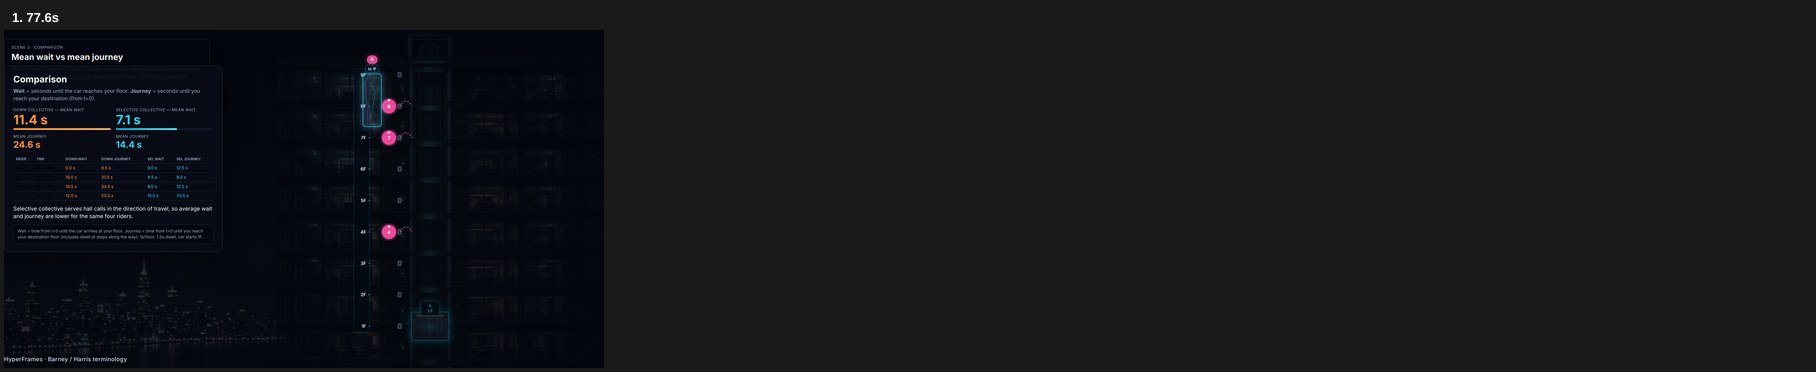
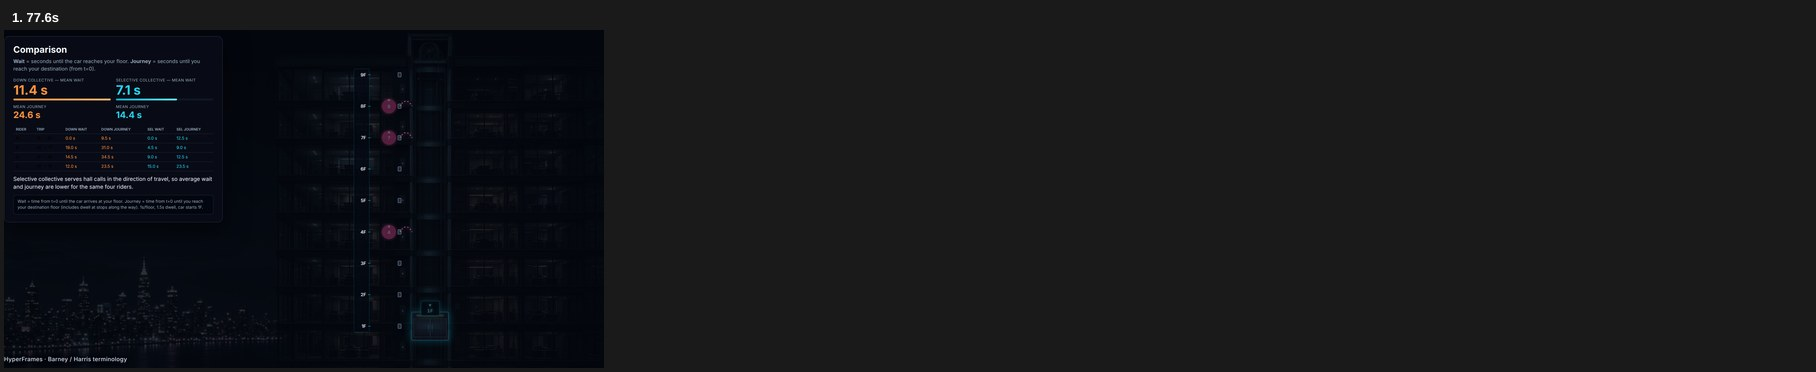
QA pass on storyboard stills: riders, badges, stats layout

diff --git a/apps/elevator-selective-collective/composition/scene.js b/apps/elevator-selective-collective/composition/scene.js
@@ -138,32 +138,70 @@ export function initComposition() {
     return { phase: 'stats', mode: null, simTime: 0 }
   }
 
+  const liveExplainer = document.getElementById('live-explainer')
+  const callsRoot = document.getElementById('calls')
+
   function setCallBadgeStyle(mode) {
+    if (callsRoot) callsRoot.setAttribute('data-mode', mode)
     document.querySelectorAll('.call-badge').forEach((g) => {
-      const dirEl = g.querySelector('.call-dir')
-      const dotEl = g.querySelector('.call-dot')
+      const dir = g.querySelector('.call-dir')
+      const floor = Number(g.dataset.floor)
+      if (!dir) return
       if (mode === 'down-collective') {
-        if (dirEl) dirEl.style.display = 'none'
-        if (dotEl) dotEl.style.display = 'block'
+        dir.textContent = ''
       } else {
-        if (dirEl) dirEl.style.display = 'block'
-        if (dotEl) dotEl.style.display = 'none'
+        dir.textContent = floor === 8 ? '▼' : '▲'
       }
     })
   }
 
-  function updateRiders(state) {
+  function positionLandingRider(el, floor) {
+    const x = LAYOUT.shaftLeft - 118
+    const y = floorCenterY(floor) + 8
+    el.style.left = `${x}px`
+    el.style.top = `${y}px`
+  }
+
+  function updateCallBadges(waitingIds) {
+    const originByRider = { b: 4, c: 7, d: 8 }
+    for (const f of CALL_FLOORS) {
+      const badge = document.querySelector(`.call-badge[data-floor="${f}"]`)
+      if (!badge) continue
+      const lit = Object.entries(originByRider).some(
+        ([id, fl]) => fl === f && waitingIds.includes(id),
+      )
+      badge.style.opacity = lit ? '1' : '0.22'
+    }
+  }
+
+  function updateRiders(state, carFloor = 1, doorsOpen = false) {
     for (const spec of DEMO_PASSENGERS) {
       const landing = document.getElementById(`rider-${spec.id}-landing`)
       const inCab = document.getElementById(`rider-${spec.id}-cab`)
       if (!landing || !inCab) continue
-      const onLanding = state.waiting.includes(spec.id)
-      const inside = state.inCar.includes(spec.id)
-      landing.style.opacity = onLanding ? '1' : '0'
-      inCab.style.opacity = inside ? '1' : '0'
+
+      let showLanding = state.waiting.includes(spec.id)
+      let showCab = state.inCar.includes(spec.id)
+      let landingFloor = spec.origin
+
+      if (
+        doorsOpen &&
+        showCab &&
+        spec.destination === Math.round(carFloor) &&
+        !state.delivered.includes(spec.id)
+      ) {
+        showLanding = true
+        showCab = false
+        landingFloor = Math.round(carFloor)
+      }
+
+      if (showLanding) positionLandingRider(landing, landingFloor)
+      landing.style.opacity = showLanding ? '1' : '0'
+      inCab.style.opacity = showCab ? '1' : '0'
     }
-    riderCount.textContent = state.inCar.length ? `${state.inCar.length} in car` : ''
-    riderCount.style.opacity = state.inCar.length ? '1' : '0'
+    const inCarCount = state.inCar.length
+    riderCount.textContent = inCarCount ? `${inCarCount} in car` : ''
+    riderCount.style.opacity = inCarCount ? '1' : '0'
   }
 
   function applyPresentationTime(t) {
@@ -171,17 +209,14 @@ export function initComposition() {
 
     termsPanel.style.opacity = phase === 'terms' ? '1' : '0'
     stats.style.opacity = phase === 'stats' ? '1' : '0'
-    typography.style.opacity = phase === 'terms' ? '1' : '0'
+    typography.style.opacity = '0'
+    liveExplainer.style.opacity = phase === 'stats' ? '0' : '1'
     plateWrap.classList.toggle('dimmed', phase === 'stats')
     if (phase === 'stats') plateWrap.style.opacity = '0.35'
     else plateWrap.style.opacity = '1'
 
     pathDown.style.opacity = phase === 'down' ? '0.85' : '0'
     pathSel.style.opacity = phase === 'selective' ? '0.88' : '0'
-    document.querySelectorAll('.call-badge').forEach((g) => {
-      if (phase !== 'stats') g.style.opacity = phase === 'terms' || phase === 'down' || phase === 'selective' ? '1' : '0'
-    })
-
     if (phase === 'terms') {
       sceneTag.textContent = 'Scene 0 · Terms'
       setCallBadgeStyle('selective-collective')
@@ -191,11 +226,17 @@ export function initComposition() {
       expDir.textContent = '—'
       expWaiting.textContent = 'B @ 4F · C @ 7F · D @ 8F still waiting in the hallway'
       setCarFloor(1, true, 1)
+      for (const spec of DEMO_PASSENGERS) {
+        if (spec.id === 'a') continue
+        const landing = document.getElementById(`rider-${spec.id}-landing`)
+        if (landing) positionLandingRider(landing, spec.origin)
+      }
       updateRiders({
         waiting: ['b', 'c', 'd'],
         inCar: ['a'],
         delivered: [],
       })
+      updateCallBadges(['b', 'c', 'd'])
       car.style.opacity = '1'
       return
     }
@@ -230,23 +271,14 @@ export function initComposition() {
       : 'No hallway waits left'
     setCarFloor(state.floor, state.doorsOpen, state.doorsOpen ? 1 : 0, state.direction)
     car.style.opacity = '1'
-    updateRiders(state)
+    updateRiders(state, state.floor, state.doorsOpen)
+    updateCallBadges(state.waiting)
     if (
       mode === 'selective-collective' &&
       state.doorsOpen &&
       Math.abs(state.floor - 7) < 0.2 &&
       state.simTime >= 9.2
     ) {
-      const bLand = document.getElementById('rider-b-landing')
-      const bCab = document.getElementById('rider-b-cab')
-      const cLand = document.getElementById('rider-c-landing')
-      const cCab = document.getElementById('rider-c-cab')
-      if (bLand && bCab && cLand && cCab) {
-        bLand.style.opacity = '1'
-        bCab.style.opacity = '0'
-        cLand.style.opacity = '0'
-        cCab.style.opacity = '1'
-      }
       expSubtitle.textContent = 'B exits at 7F while C boards — same dwell, two riders.'
     }
   }
@@ -417,10 +449,11 @@ function buildCalls() {
     align.push({ floor: f, cy })
     const g = document.createElementNS('http://www.w3.org/2000/svg', 'g')
     g.setAttribute('class', 'call-badge')
+    g.dataset.floor = String(f)
     g.setAttribute('transform', `translate(${LAYOUT.callX}, ${cy})`)
     g.innerHTML = `
       <circle class="call-circle" cx="0" cy="0" r="22"/>
-      <circle class="call-dot" cx="0" cy="-2" r="5" style="display:none"/>
+      <circle class="call-dot" cx="0" cy="-2" r="5" opacity="0"/>
       <text class="call-num" x="0" y="6">${f}</text>
       <text class="call-dir" x="0" y="-14">${arrowFor(f)}</text>
     `

diff --git a/apps/elevator-selective-collective/composition/index.html b/apps/elevator-selective-collective/composition/index.html
@@ -149,24 +149,31 @@
       .landing-rider {
         position: absolute; z-index: 22;
         opacity: 0;
-        transform: translate(-50%, -62%);
+        transform: translate(-50%, -92%);
         pointer-events: none;
       }
       .landing-rider .figure-wrap {
         position: relative;
-        filter: drop-shadow(0 0 16px rgba(244, 114, 182, 0.95)) drop-shadow(0 0 6px #22d3ee);
+        filter: drop-shadow(0 0 18px rgba(244, 114, 182, 1)) drop-shadow(0 0 8px #22d3ee);
+        background: rgba(4, 8, 18, 0.72);
+        border-radius: 6px;
+        padding: 4px 6px 2px;
+        border: 2px solid rgba(34, 211, 238, 0.75);
       }
       .landing-rider img {
-        height: 156px; width: auto; display: block; opacity: 1;
-        outline: 2px solid rgba(34, 211, 238, 0.85);
-        outline-offset: 3px;
-        border-radius: 4px;
+        height: 150px; width: auto; display: block; opacity: 1;
+        filter: contrast(1.45) saturate(1.3) brightness(1.12);
+        border-radius: 3px;
       }
       .rider-chip {
-        position: absolute; left: 50%; top: -8px;
-        transform: translate(-50%, -100%);
-        display: flex; flex-direction: column; align-items: center; gap: 4px;
+        position: absolute; left: calc(100% + 10px); top: 6px;
+        transform: none;
+        display: flex; flex-direction: column; align-items: flex-start; gap: 4px;
       }
+      #calls[data-mode="down-collective"] .call-dir { opacity: 0; }
+      #calls[data-mode="down-collective"] .call-dot { opacity: 1; }
+      #calls[data-mode="selective-collective"] .call-dir { opacity: 1; }
+      #calls[data-mode="selective-collective"] .call-dot { opacity: 0; }
       .rider-name {
         padding: 4px 10px; border-radius: 999px;
         background: rgba(236, 72, 153, 0.95);
@@ -216,7 +223,7 @@
         flex: 1; min-width: 200px;
         font-size: 14px; color: #94a3b8; line-height: 1.35;
       }
-      #typography { position: absolute; top: 280px; color: #f8fafc; max-width: 620px; }
+      #typography { position: absolute; top: 280px; color: #f8fafc; max-width: 620px; opacity: 0; }
       #headline {
         font-size: 72px; font-weight: 600; letter-spacing: -0.04em; line-height: 1.02;
         text-shadow: 0 0 80px rgba(34, 211, 238, 0.35);
@@ -224,7 +231,7 @@
       #headline .word { display: inline-block; opacity: 0; }
       #subhead { margin-top: 18px; font-size: 28px; font-weight: 300; color: #cbd5e1; opacity: 0; }
       #terms-panel {
-        position: absolute; top: 260px; left: 0; width: 640px;
+        position: absolute; top: 248px; left: 0; width: 640px;
         padding: 20px 22px; border-radius: 12px;
         background: rgba(8, 12, 22, 0.88);
         border: 1px solid rgba(148, 163, 184, 0.2);
@@ -243,7 +250,7 @@
         font-size: 16px;
       }
       #stats {
-        position: absolute; left: 0; top: 120px; width: 680px;
+        position: absolute; left: 0; top: 28px; width: 680px;
         opacity: 0; z-index: 40;
         background: rgba(8, 12, 22, 0.94); border: 1px solid rgba(148, 163, 184, 0.25);
         border-radius: 16px; padding: 24px 28px;

diff --git a/apps/elevator-selective-collective/composition/simulation.js b/apps/elevator-selective-collective/composition/simulation.js
@@ -392,6 +392,10 @@ export function getStateAtSimTime(sim, simTime) {
     }
   }
 
+  let dwellProgress = 0
+  let dwellFloor = null
+  let activeDwellEnd = null
+
   for (const seg of sim.segments) {
     if (t >= seg.t0 && t < seg.t1) {
       if (seg.phase === 'travel') {
@@ -403,8 +407,30 @@ export function getStateAtSimTime(sim, simTime) {
         floor = seg.fromFloor
         doorsOpen = true
         direction = seg.direction
+        dwellFloor = seg.fromFloor
+        dwellProgress = (t - seg.t0) / (seg.t1 - seg.t0)
+        activeDwellEnd = seg.t1
       }
       break
+    }
+  }
+
+  if (doorsOpen && dwellFloor !== null && dwellProgress >= 0.5 && activeDwellEnd !== null) {
+    const endEv = sorted.find(
+      (ev) =>
+        ev.kind === 'dwell_end' &&
+        ev.floor === dwellFloor &&
+        Math.abs(ev.time - activeDwellEnd) < 0.001,
+    )
+    if (endEv) {
+      if (endEv.boarded) for (const id of endEv.boarded) {
+        waiting.delete(id)
+        inCar.add(id)
+      }
+      if (endEv.alighted) for (const id of endEv.alighted) {
+        inCar.delete(id)
+        delivered.add(id)
+      }
     }
   }
 
